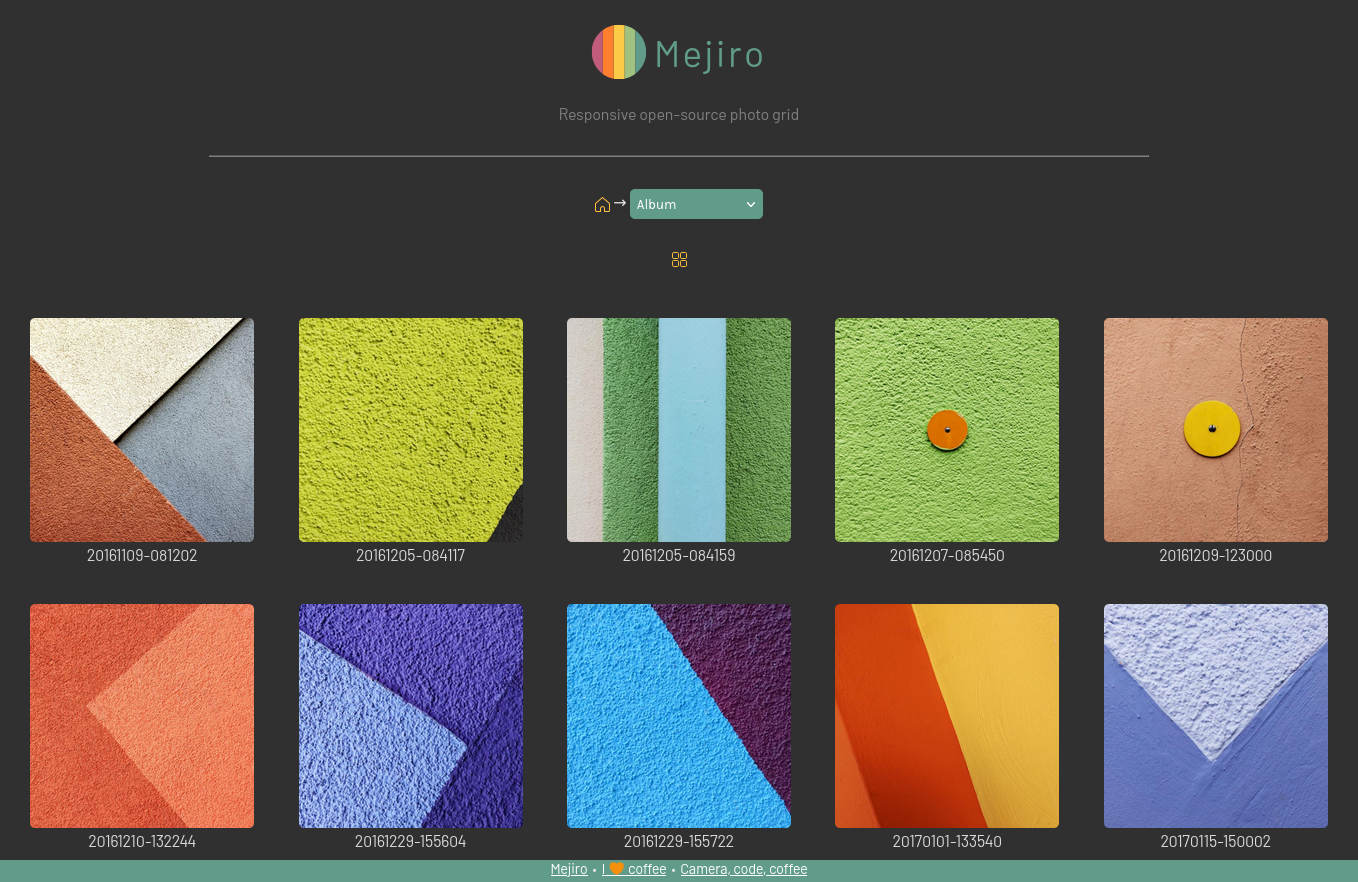
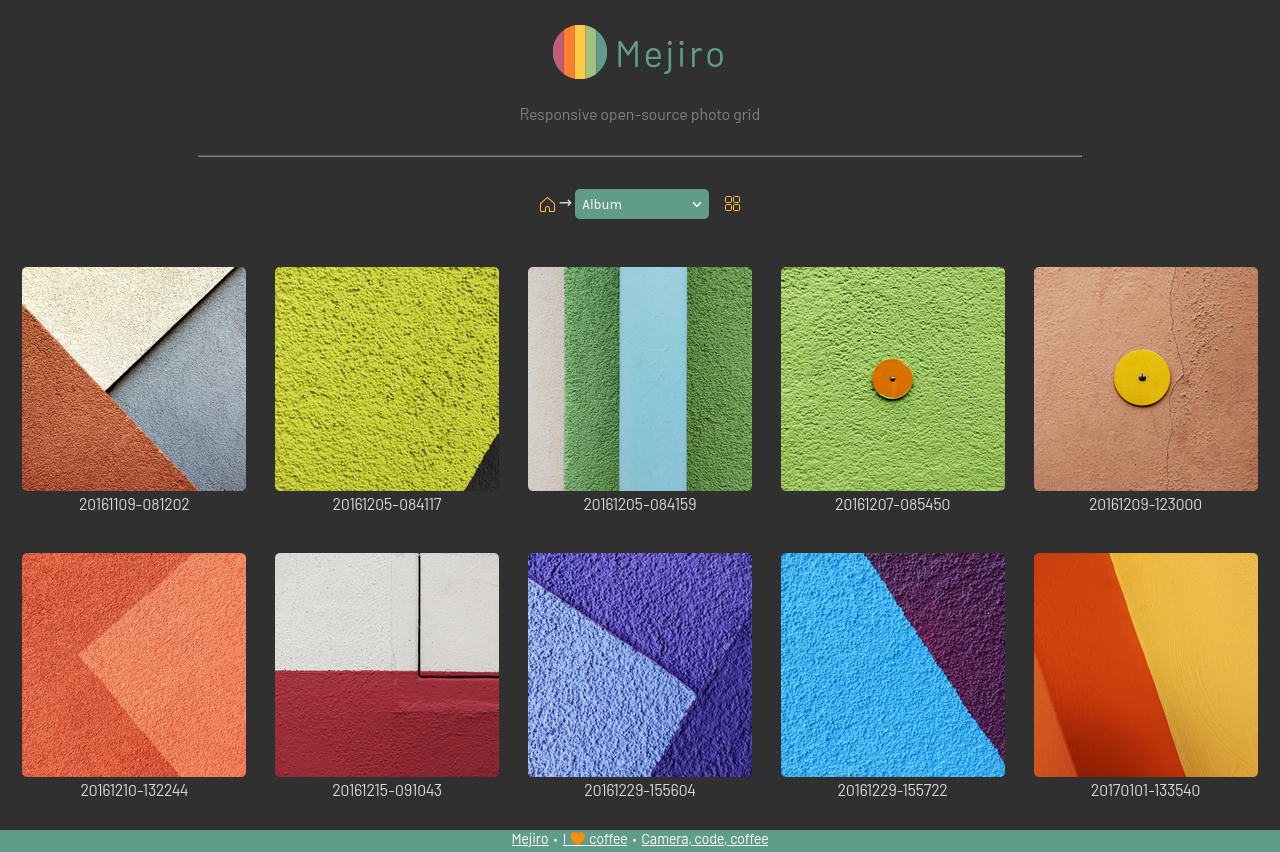
Minor cosmetic tweaks

diff --git a/index.php b/index.php
@@ -224,7 +224,6 @@ if (!extension_loaded('exif')) {
 					echo "<option value='?d=" . ltrim($dir_option, '/') . "'>" . $dir_name . "</option>";
 				}
 				echo "</select>";
-				echo "</div>";
 			}
 			// Check whether $photo_dir directory exists
 			if (!file_exists($photo_dir)) {
@@ -249,9 +248,9 @@ if (!extension_loaded('exif')) {
 				$all = null;
 			}
 			if (isset($_GET["all"]) != 1 && $file_count > $per_page) {
-				echo '<div class="center"><a href="?all=1' . '&d=' . urlencode($sub_photo_dir) . '"><img src="svg/display-grid.svg"/></a></div>';
+				echo '<div style="display: inline; margin-left: 1em; vertical-align: middle;"><a href="?all=1' . '&d=' . urlencode($sub_photo_dir) . '"><img src="svg/display-grid.svg"/></a></div>';
 			}
-
+			echo "</div>";
 			echo '<div class="gallery-grid">';
 			if ($all == 1) {
 				for ($i = 0; $i < $file_count; $i++) {
